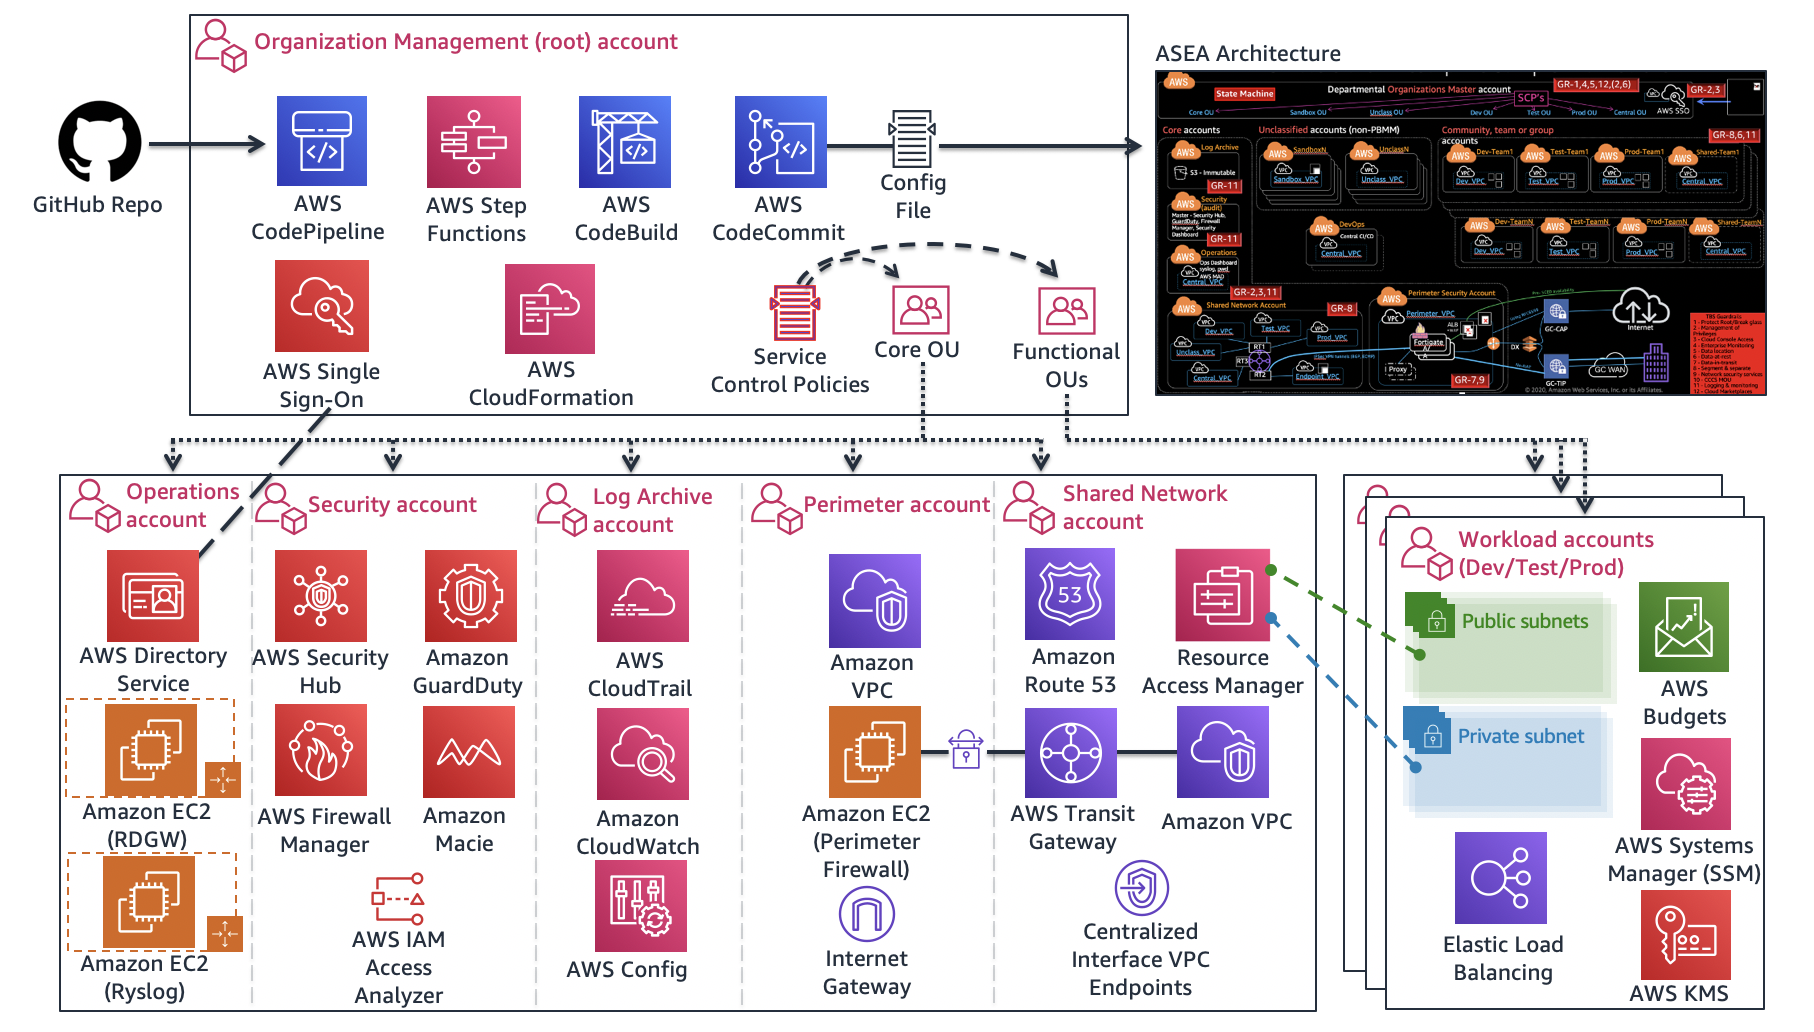
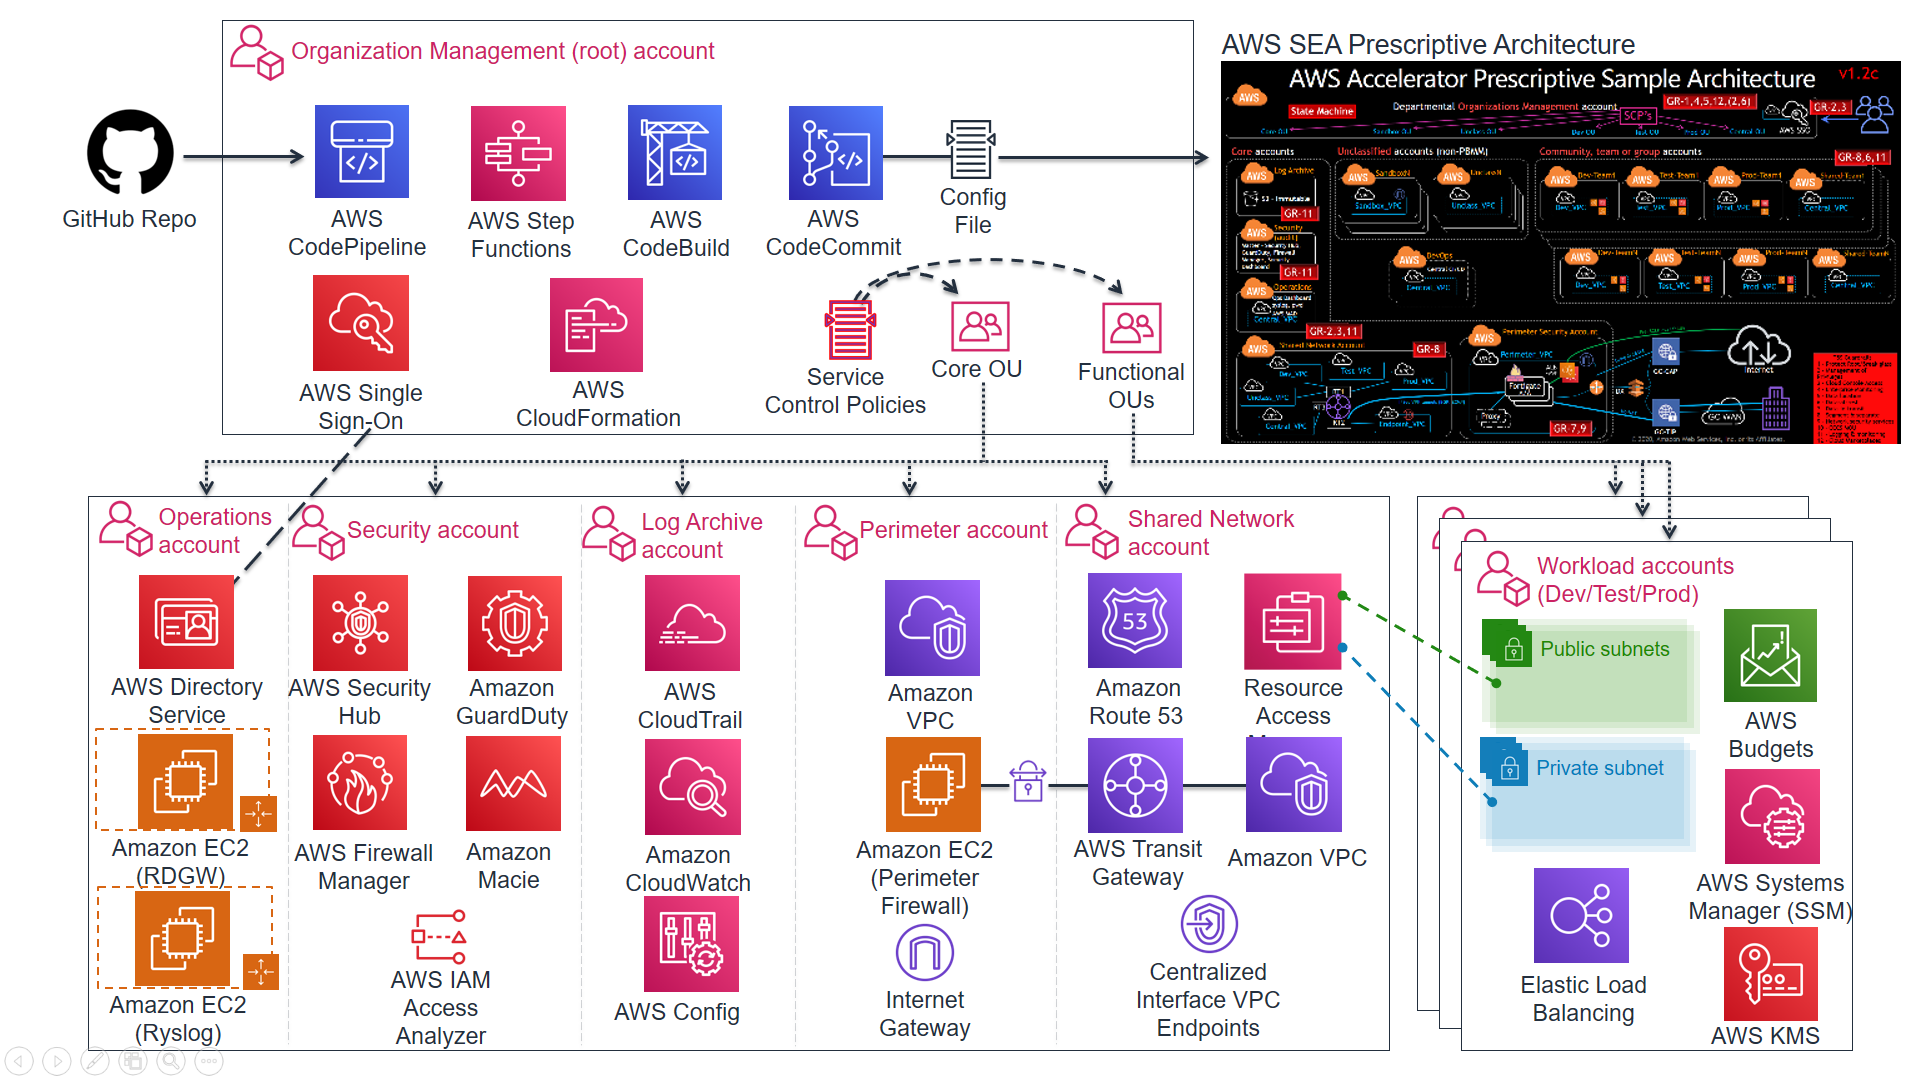
(docs)tweak for clarity (#592)
* tweak docs on customized config files
* fix diagram

Changed region(s): [[0.0309, 0.031, 1.0, 0.9922], [0.0926, 0.0, 0.3705, 0.093], [0.9261, 0.4651, 0.957, 0.4961]]

diff --git a/docs/installation/installation.md b/docs/installation/installation.md
@@ -217,7 +217,8 @@ If deploying to an internal AWS employee account, to successfully install the so
 
 1. You can find the latest release in the repository [here](https://github.com/aws-samples/aws-secure-environment-accelerator/releases).
 2. Download the CloudFormation (CFN) template `AcceleratorInstallerXXX.template.json` for the release you plan to install
-3. Use the provided CloudFormation template to deploy a new stack in your AWS account
+3. Use the provided CloudFormation template to deploy a new stack in your Management (root) AWS account
+   - As previously stated we do not support installation in sub-accounts
 4. **_Make sure you are in `ca-central-1` (or your desired primary or control region)_**
 5. Fill out the required parameters - **_LEAVE THE DEFAULTS UNLESS SPECIFIED BELOW_**
 6. Specify `Stack Name` STARTING with `PBMMAccel-` (case sensitive) suggest a suffix of `deptname` or `username`
@@ -310,6 +311,12 @@ Issues in Older Releases:
 ## 3.1. Considerations
 
 - Always compare your configuration file with the config file from the release you are upgrading to in order to validate new or changed parameters or changes in parameter types / formats.
+- If you have customized any of the additional Accelerator provided default configuration files (SCPs, rsyslog config, ssm-documents, iam-policies, etc.):
+  - customers must manually merge Accelerator provided updates with your deployed customizations;
+  - failure to do so could result in either a) broken Accelerator functionality, or b) dropped customer guardrail enhancements;
+  - prior to v1.2.5, if customers don't take action, the utilized configurations will revert to the latest Accelerator provided defaults. Update the last modified date on each custom config file in your input bucket and rerun the state machine post-upgrade to re-apply customizations;
+  - post v1.2.5, if customers don't take action, we will continue to utilize a customers customized configurations regardless of each files timestamp;
+  - in both cases it is important customers assess the new defaults and integrate them into their custom configuration or it could break Accelerator functionality.
 - Upgrades to `v1.2.5 and above` from `v1.2.4 and below` requires the manual removal of the `PBMMAccel-PipelineRole` StackSet before beginning your upgrade (we have eliminated all use of StackSets in this release)
   - In the root AWS account, go to: CloudFormation, StackSets
   - Find: `PBMMAccel-PipelineRole`, and Select the: `Stack Instances` tab
@@ -328,15 +335,13 @@ Issues in Older Releases:
 1. Ensure a valid Github token is stored in secrets manager
 2. Review the upgrade considerations in section 3.1.
 3. Update the config file in Code Commit with new parameters and updated parameter types based on the version you are upgrading to (this is important as features are iterating rapidly)
-4. If you are replacing your GitHub Token:
-
+4. If you customized any of the other Accelerator default config files by overriding them in your S3 input bucket, merge the latest defaults with your customizations (before upgrade in v1.2.5+, after upgrade in prior releases)
+5. If you are replacing your GitHub Token:
    - Take note of the s3 bucket name from the stack parameters
    - Delete the Installer CFN stack (`PBMMAccel-what-you-provided`)
    - Redeploy the Installer CFN stack using the latest template (provide bucket name and notification email address)
    - The pipeline will automatically run and trigger the upgraded state machine
-
-5. If you are using a pre-existing GitHub token:
-
+6. If you are using a pre-existing GitHub token:
    - Update the Installer CFN stack using the latest template, providing the `GithubBranch` associated with the release (eg. `release/v1.2.3`)
      - Go To Code Pipeline and Release the PBMMAccel-InstallerPipeline
 
